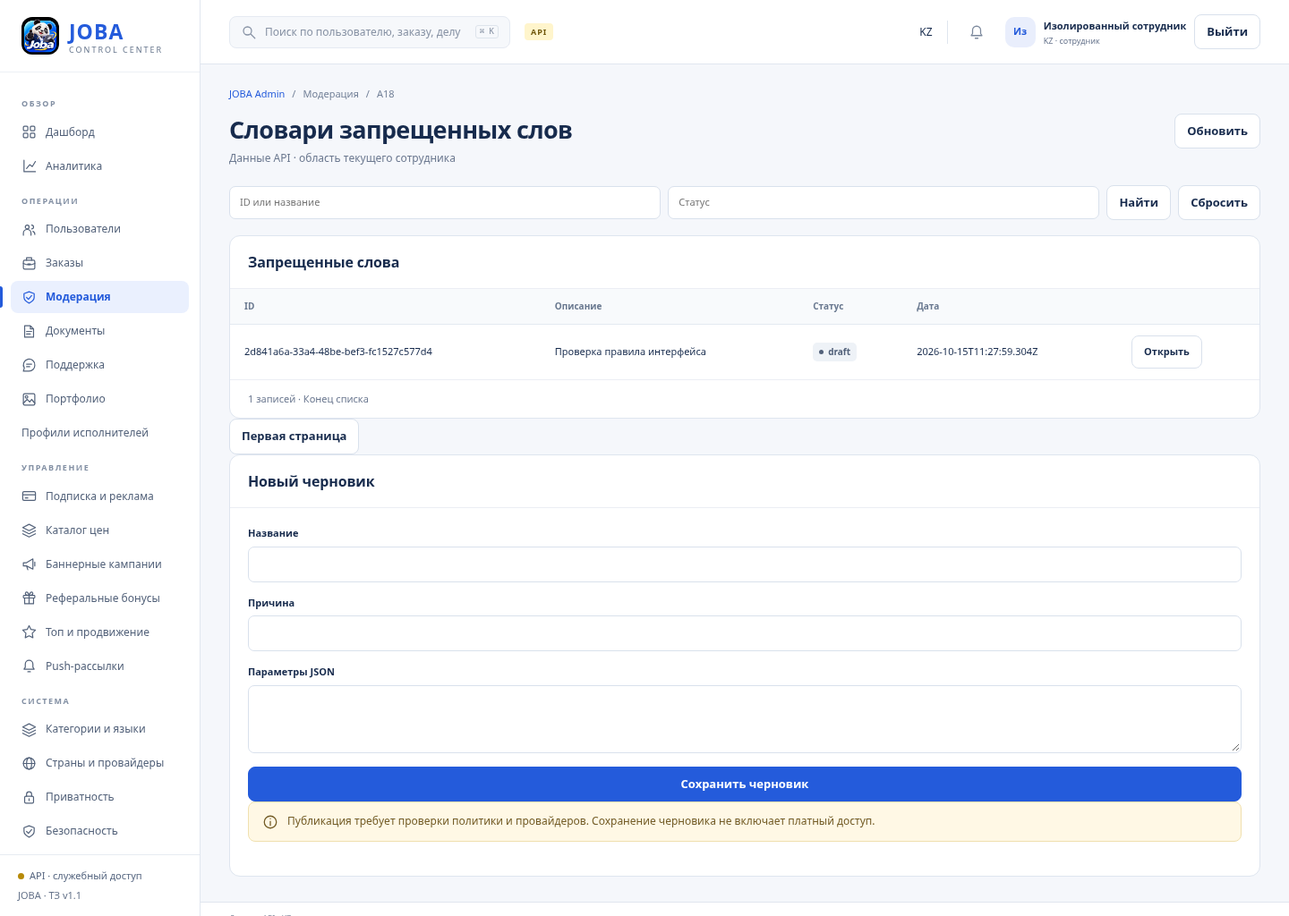
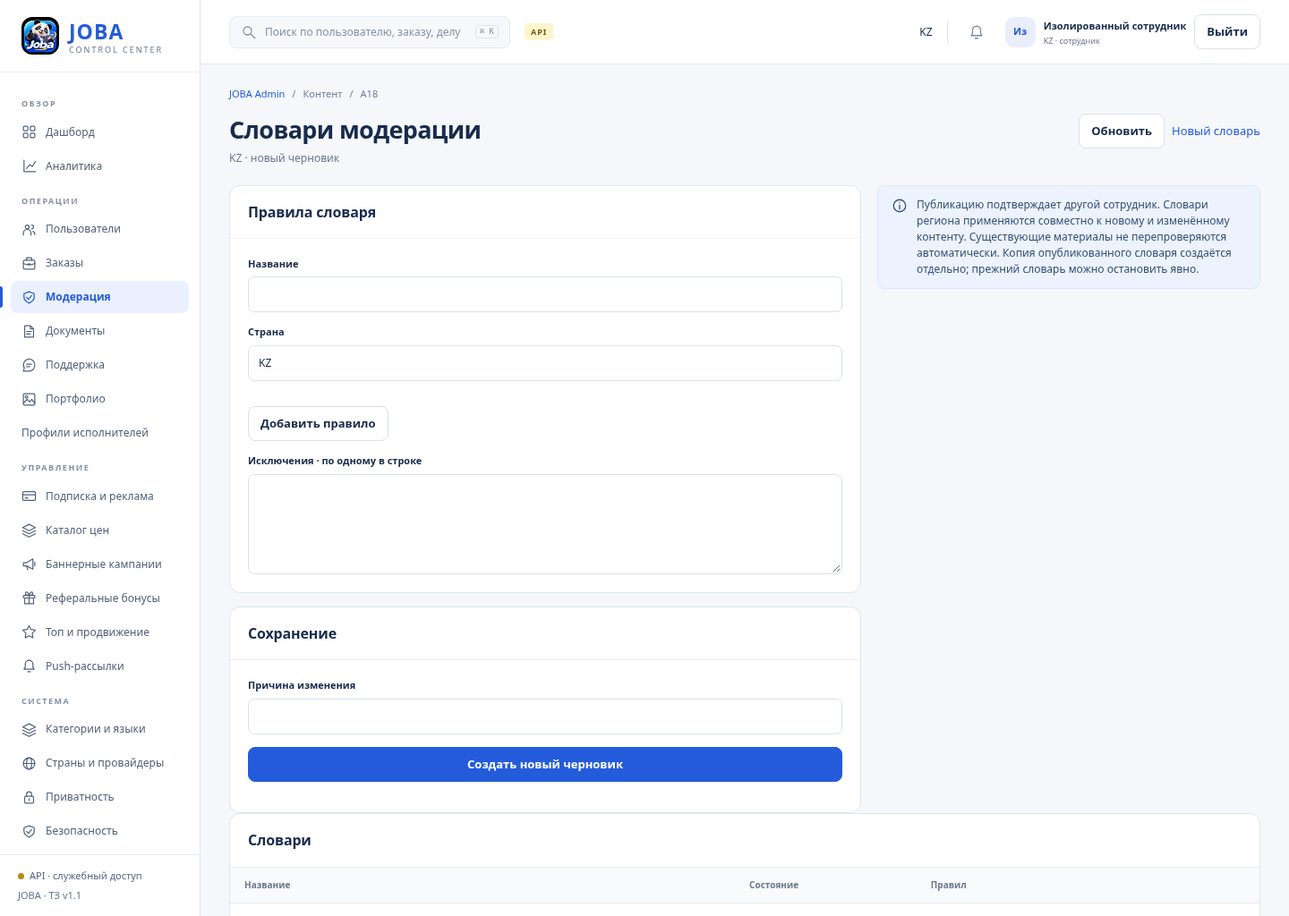
feat: add structured moderation dictionary editor and guarded publication

diff --git a/apps/admin/dictionary-workspace.js b/apps/admin/dictionary-workspace.js
@@ -1,0 +1,18 @@
+const surfaces={user:'Имя пользователя',order:'Заказы',offer:'Отклики',contractor:'Профили',portfolio:'Портфолио',message:'Сообщения',review:'Отзывы'};
+const states={draft:'Черновик',published:'Опубликован',stopped:'Остановлен'};
+export async function dictionaryWorkspace({key,api,esc,card,note,tablecard,country,actorId,onRefresh}){
+ const params=new URLSearchParams(location.hash.split('?')[1]||''),list=await api('/admin/moderation-dictionaries?'+new URLSearchParams({limit:'20',...(params.get('cursor')?{cursor:params.get('cursor')}:{})}));
+ const r=params.get('id')?await api('/admin/moderation-dictionaries/'+encodeURIComponent(params.get('id'))):undefined,p=r?.payload||{},own=r?.owner===actorId&&r.status==='draft';
+ const input=(label,name,value,attrs='')=>`<div class="formfield"><label for="dict-${name}">${label}</label><input id="dict-${name}" name="${name}" value="${esc(value??'')}" ${attrs}></div>`;
+ let counter=0;
+ const row=rule=>{const n=counter++;return `<fieldset data-rule ${rule.id?`data-rule-id="${esc(rule.id)}"`:''} class="stack"><legend>Правило</legend><div class="formgrid"><div class="formfield"><label for="dict-value-${n}">Слово или фраза</label><input id="dict-value-${n}" data-value value="${esc(rule.value||'')}" required maxlength="100"></div><div class="formfield"><label for="dict-type-${n}">Тип совпадения</label><select id="dict-type-${n}" data-type><option value="exact_word">Целое слово</option><option value="phrase" ${rule.type==='phrase'?'selected':''}>Фраза</option></select></div></div><div class="actions">${Object.entries(surfaces).map(([id,label])=>`<label><input type="checkbox" data-surface="${id}" ${!rule.surfaces||rule.surfaces.includes(id)?'checked':''}> ${label}</label>`).join('')}</div><button type="button" data-remove>Удалить правило</button></fieldset>`;};
+ return {key,id:'A18',title:'Словари модерации',subtitle:country+(r?' · Версия '+r.version+' · '+(states[r.status]||r.status):' · новый черновик'),section:'Контент',actions:'<button id="refresh-data">Обновить</button><a class="btn" href="#dictionary">Новый словарь</a>',body:()=>`<div class="grid split"><form id="dictionary-editor" class="stack">${card('Правила словаря',`${input('Название','title',r?.title,'required minlength="3" maxlength="120"')}${input('Страна','country',country,'readonly')}<div id="dictionary-rules" class="stack">${(p.rules||[]).map(row).join('')}</div><button type="button" id="dictionary-add">Добавить правило</button><div class="formfield"><label for="dict-exceptions">Исключения · по одному в строке</label><textarea id="dict-exceptions" name="exceptions" rows="5">${esc((p.exceptions||[]).join('\n'))}</textarea></div>`)}${card('Сохранение',`${input('Причина изменения','reason','','required minlength="10" maxlength="1000"')}<button class="primary">${own?'Сохранить черновик':'Создать новый черновик'}</button><div role="alert"></div>`)}</form><div class="stack">${note('Публикацию подтверждает другой сотрудник. Словари региона применяются совместно к новому и изменённому контенту. Существующие материалы не перепроверяются автоматически. Копия опубликованного словаря создаётся отдельно; прежний словарь можно остановить явно.')}${r?card('Проверка версии',`<a class="btn" href="#dictionary-dryrun?id=${encodeURIComponent(r.id)}">Проверить текст</a><form id="dictionary-command" class="stack"><label for="dict-command-reason">Основание действия</label><textarea id="dict-command-reason" name="reason" required minlength="10" maxlength="1000"></textarea><div class="actions"><button value="validate">Проверить</button><button value="preview">Предпросмотр правил</button>${r.status==='draft'?'<button value="publish" class="primary">Опубликовать другим сотрудником</button>':r.status==='published'?'<button value="stop">Остановить</button>':''}<button value="rollback">Создать копию</button></div><div role="alert"></div><div role="status"></div></form>`):''}</div></div>${tablecard('Словари',['Название','Состояние','Правил',''],list.items.map(x=>[esc(x.title),esc(states[x.status]||x.status),String(x.payload.rules.length),`<a href="#dictionary?id=${encodeURIComponent(x.id)}">Открыть →</a>`]),'',`${list.items.length} записей`)}${list.meta?.next_cursor?`<a href="#dictionary?cursor=${encodeURIComponent(list.meta.next_cursor)}">Следующая страница</a>`:''}`,
+ bind(){const form=document.getElementById('dictionary-editor'),commands=document.getElementById('dictionary-command'),rules=document.getElementById('dictionary-rules');let dirty=false,busy=false;
+ const changed=()=>{dirty=true;if(commands){commands.querySelectorAll('button').forEach(x=>x.disabled=true);commands.querySelector('[role=status]').textContent='Сохраните изменения перед проверкой.';}};
+ form.oninput=e=>{if(e.target.name!=='reason')changed();};
+ document.getElementById('dictionary-add').onclick=()=>{if(rules.children.length>=1000){form.querySelector('[role=alert]').textContent='Максимум 1000 правил';return;}rules.insertAdjacentHTML('beforeend',row({}));changed();rules.lastElementChild.querySelector('input').focus();};
+ rules.onclick=e=>{if(e.target.closest('[data-remove]')){e.target.closest('[data-rule]').remove();changed();}};
+ form.onsubmit=async e=>{e.preventDefault();if(busy)return;const v=Object.fromEntries(new FormData(form)),payload={rules:[...rules.querySelectorAll('[data-rule]')].map(x=>({...(x.dataset.ruleId?{id:x.dataset.ruleId}:{}),value:x.querySelector('[data-value]').value,type:x.querySelector('[data-type]').value,surfaces:[...x.querySelectorAll('[data-surface]:checked')].map(y=>y.dataset.surface)})),exceptions:v.exceptions.split('\n').map(x=>x.trim()).filter(Boolean)};busy=true;const controls=[...form.querySelectorAll('input,select,textarea,button')];controls.forEach(x=>x.disabled=true);form.querySelector('[role=alert]').textContent='';try{const saved=await api('/admin/moderation-dictionaries'+(own?'/'+r.id:''),own?'PATCH':'POST',{title:v.title,reason:v.reason,payload,...(own?{expected_version:r.version}:{})});if(params.get('id')===saved.id)await onRefresh();else location.hash='dictionary?id='+encodeURIComponent(saved.id);}catch(error){form.querySelector('[role=alert]').textContent=error.message;}finally{busy=false;controls.forEach(x=>x.disabled=false);}};
+ if(commands)commands.onsubmit=async e=>{e.preventDefault();if(dirty||busy)return;busy=true;const action=e.submitter.value,controls=[...commands.querySelectorAll('button'),...form.querySelectorAll('input,select,textarea,button')];controls.forEach(x=>x.disabled=true);commands.querySelector('[role=alert]').textContent='';try{const result=await api('/admin/moderation-dictionaries/'+r.id+'/'+action,'POST',{reason:new FormData(commands).get('reason'),expected_version:r.version});if(['validate','preview'].includes(action))commands.querySelector('[role=status]').textContent=`Версия ${result.version} проверена; правил ${result.rules}. Контент не изменён.`;else if(action==='rollback')location.hash='dictionary?id='+encodeURIComponent(result.id);else await onRefresh();}catch(error){commands.querySelector('[role=alert]').textContent=error.message;}finally{busy=false;controls.forEach(x=>x.disabled=false);}};
+ }};
+}

diff --git a/apps/admin/runtime.js b/apps/admin/runtime.js
@@ -1,3 +1,4 @@
+import {dictionaryWorkspace} from './dictionary-workspace.js';
 import {placementWorkspace} from './placement-workspace.js';
 import {rankingWorkspace} from './ranking-workspace.js';
 import {referralWorkspace} from './referral-workspace.js';
@@ -24,7 +25,7 @@ const {routes,render,card,tablecard,field,note,metric,badge}=window.JOBA_ADMIN;
 const designMode=new URLSearchParams(location.search).has('design');
 const esc=v=>String(v??'').replace(/[&<>"']/g,c=>({'&':'&amp;','<':'&lt;','>':'&gt;','"':'&quot;',"'":'&#39;'}[c]));
 let session,loginDraft,cache={},error='',generation=0,disposeWorkspace;
-const privateWorkspaces=new Set([...pushRoutes,...scenarioRoutes,...userRoutes,'placements','ranking','referrals','referral-preview','categories','prices','pricing','verificationPolicies','retention','campaigns','banner-detail','branding-build','boosts','boost-grant','analytics','dashboard','security','jobs','scheduled','job-detail','branding','countries','monetization','settings','legal']);
+const privateWorkspaces=new Set([...pushRoutes,...scenarioRoutes,...userRoutes,'dictionary','dictionaries','placements','ranking','referrals','referral-preview','categories','prices','pricing','verificationPolicies','retention','campaigns','banner-detail','branding-build','boosts','boost-grant','analytics','dashboard','security','jobs','scheduled','job-detail','branding','countries','monetization','settings','legal']);
 const cursors={},filters={},configRoutes=new Set(['prices','pricing','monetization','push','referrals','dictionaries','dictionary','categories','ranking','placements','verificationPolicies','retention']);
 const sections={users:['users','Аккаунты'],orders:['orders','Заказы'],support:['support-threads','Поддержка'],'support-recovery':['recovery-threads','Восстановление доступа'],moderation:['cases','Дела'],portfolio:['portfolio','Портфолио'],contractors:['contractors','Профили исполнителей'],privacy:['privacy-requests','Запросы приватности'],blacklist:['blacklist','Черный список'],audit:['audit','Аудит'],prices:['price-versions','Цены'],monetization:['monetization-configs','Монетизация'],push:['push-campaigns','Рассылки'],referrals:['referral-campaigns','Реферальные кампании'],dictionaries:['moderation-dictionaries','Словари'],categories:['categories','Категории'],ranking:['ranking-configs','Рейтинг'],pricing:['price-versions','Каталог цен'],campaigns:['banner-campaigns','Кампании'],dictionary:['moderation-dictionaries','Запрещенные слова'],verification:['verifications','Проверка документов'],top100:['boost-reports','Топ и продвижение'],placements:['placement-policies','Размещения'],verificationPolicies:['verification-policies','Правила проверки'],retention:['retention-policies','Сроки хранения']};
 function clearStaffState(){
@@ -115,11 +116,12 @@ async function draw(reload=true) {
       if(key==='countries')routes[key]=await countryWorkspace({key,api:request,esc,card,note,badge,namedField,onRefresh:()=>draw()});
       if(['analytics','dashboard','security','jobs','scheduled','job-detail'].includes(key))routes[key]=await systemWorkspace({key,api:request,esc,card,tablecard,note,metric,badge,onRefresh:()=>draw()});
       if(key==='security')routes[key].actions+='<a class="btn" href="#security-full">Защищённый просмотр</a>';
-      if(sections[key]&&!pushRoutes.has(key)&&!['placements','ranking','referrals','campaigns','verificationPolicies','retention','prices','pricing','categories'].includes(key))cache[key]=await request('/admin/'+sections[key][0]+'?'+new URLSearchParams({...filters[key],...(cursors[key]?{cursor:cursors[key]}:{})}));
+      if(sections[key]&&!pushRoutes.has(key)&&!['dictionary','dictionaries','placements','ranking','referrals','campaigns','verificationPolicies','retention','prices','pricing','categories'].includes(key))cache[key]=await request('/admin/'+sections[key][0]+'?'+new URLSearchParams({...filters[key],...(cursors[key]?{cursor:cursors[key]}:{})}));
       if(key==='categories')routes[key]=await categoryWorkspace({key,api:request,esc,card,note,tablecard,country:session.user.country,actorId:session.user.id,onRefresh:()=>draw()});
       if(['verificationPolicies','retention'].includes(key))routes[key]=await documentPolicyWorkspace({key,api:request,esc,card,note,tablecard,country:session.user.country,actorId:session.user.id,onRefresh:()=>draw()});
       if(['campaigns','banner-detail'].includes(key))routes[key]=await bannerWorkspace({key,api:request,files:{upload:async file=>{if(g!==generation)throw Error('Экран изменился');const result=await api.upload(file,'banner');if(g!==generation)throw Error('Экран изменился');return result;},download:async path=>{if(g!==generation)throw Error('Экран изменился');const result=await api.download(path);if(g!==generation)throw Error('Экран изменился');return result;}},esc,card,note,tablecard,country:session.user.country,actorId:session.user.id,onRefresh:()=>draw()});
       if(['promo','promo-preview'].includes(key))routes[key]=await promotionWorkspace({key,api:request,esc,card,note,tablecard,country:session.user.country,actorId:session.user.id,onRefresh:()=>draw()});
+      if(['dictionary','dictionaries'].includes(key))routes[key]=await dictionaryWorkspace({key,api:request,esc,card,note,tablecard,country:session.user.country,actorId:session.user.id,onRefresh:()=>draw()});
       if(key==='placements')routes[key]=await placementWorkspace({key,api:request,esc,card,note,tablecard,country:session.user.country,actorId:session.user.id,onRefresh:()=>draw()});
       if(key==='ranking')routes[key]=await rankingWorkspace({key,api:request,esc,card,note,tablecard,country:session.user.country,actorId:session.user.id,onRefresh:()=>draw()});
       if(['referrals','referral-preview'].includes(key))routes[key]=await referralWorkspace({key,api:request,esc,card,note,tablecard,country:session.user.country,actorId:session.user.id,onRefresh:()=>draw()});

diff --git a/services/api/src/marketplace.ts b/services/api/src/marketplace.ts
@@ -31,7 +31,7 @@ import { Commerce } from './commerce';
 import { PopplerPdfSanitizer } from './pdf-sanitizer';
 import { PrivateFiles, ClamAvScanner } from './private-files';
 import sharp from 'sharp';
-import { Moderation, validateRules, TEXT_SURFACES, matchesRule } from './moderation';
+import { Moderation, dictionaryPayload,validateRules, TEXT_SURFACES, matchesRule } from './moderation';
 import { Configuration,normalizePromotionPayload } from './configuration';
 import { Growth } from './growth';
 import { Branding } from './branding';
@@ -1283,7 +1283,7 @@ export class Marketplace {
       }
       const configKinds=['monetization-configs','price-versions','categories','push-campaigns','referral-campaigns','moderation-dictionaries','ranking-configs','promotions','placement-policies','verification-policies','retention-policies','country-controls'];
       if(configKinds.includes(section)&&method==='POST'&&path.split('/').length===3) {
-        if(section==='moderation-dictionaries'){try{validateRules(b.payload?.rules);}catch(e:any){fail(400,'VALIDATION_ERROR',e.message);}}
+        if(section==='moderation-dictionaries'){try{b.payload=dictionaryPayload(b.payload);}catch(e:any){fail(400,'VALIDATION_ERROR',e.message);}}
         if(section==='categories'){
           const r=this.record('category',a,{title:text(b,'title',3,120),status:'draft'});let stable=r.id;
           if(b.payload?.category_id){const original=await this.object(String(b.payload.category_id),a,'category');stable=categoryId(original);r.legacy_id=original.legacy_id;}
@@ -1341,11 +1341,18 @@ export class Marketplace {
         const result=await this.store.put({...r,title:text(b,'title',3,120),payload:normalizePromotionPayload(b.payload??{}),preview:undefined,version:r.version+1});
         await this.audit(a,'promotions.edited',r.id,text(b,'reason',5,1000));return result;
       }
+      const editDictionary=path.match(/^\/admin\/moderation-dictionaries\/([^/]+)$/);
+      if(editDictionary&&['GET','PATCH'].includes(method)){
+        const r=await this.object(editDictionary[1],a,'dictionary');if(method==='GET')return r;
+        this.version(r,b);if(r.owner!==a.id||r.status!=='draft')fail(409,'STATE_CONFLICT','Создайте новый черновик словаря');
+        let payload;try{payload=dictionaryPayload(b.payload);}catch(e:any){fail(400,'VALIDATION_ERROR',e.message);}
+        const result=await this.store.put({...r,title:text(b,'title',3,120),payload,preview:undefined,version:r.version+1});await this.audit(a,'dictionary.edited',r.id,text(b,'reason',10,1000));return result;
+      }
       const dictionaryDryRun=path.match(/^\/admin\/moderation-dictionaries\/([^/]+)\/dry-run$/);
       if(dictionaryDryRun&&method==='POST'){
         const d=await this.object(dictionaryDryRun[1],a,'dictionary');this.version(d,b);
         const sample=text(b,'text',1,10000),reason=text(b,'reason',10,1000);
-        try{validateRules(d.payload.rules);}catch(e:any){fail(400,'VALIDATION_ERROR',e.message);}
+        try{dictionaryPayload(d.payload);}catch(e:any){fail(400,'VALIDATION_ERROR',e.message);}
         if(!Object.hasOwn(TEXT_SURFACES,String(b.surface)))fail(400,'VALIDATION_ERROR','Неизвестная поверхность текста');
         const hits=d.payload.rules.filter((r:any)=>(!r.surfaces||r.surfaces.includes(b.surface))&&matchesRule(sample,r.value,r.type,d.payload.exceptions??[])).map((r:any)=>({rule_id:r.id??r.value,type:r.type,value:r.value}));
         await this.audit(a,'dictionary.dry_run',d.id,reason);return {dictionary_id:d.id,version:d.version,surface:b.surface,hits,matched:hits.length>0,mutated_content:false};
@@ -1356,8 +1363,9 @@ export class Marketplace {
       if(blacklistDetail&&method==='GET'){const r=await this.object(blacklistDetail[1],a,'blacklist');return {id:r.id,user_id:r.user_id,case_id:r.case_id,status:r.status,scope:r.scope,reason:r.reason,ends_at:r.ends_at,created_at:r.created_at,version:r.version};}
       const dictionaryCommand=path.match(/^\/admin\/moderation-dictionaries\/([^/]+)\/(validate|preview|publish)$/);
       if(dictionaryCommand&&method==='POST') {
-        const d=await this.object(dictionaryCommand[1],a,'dictionary');try{validateRules(d.payload.rules);}catch(e:any){fail(400,'VALIDATION_ERROR',e.message);}
-        if(dictionaryCommand[2]!=='publish')return {valid:true,version:d.version,rules:d.payload.rules.length,retroactive:false};
+        const d=await this.object(dictionaryCommand[1],a,'dictionary');this.version(d,b);const reason=text(b,'reason',10,1000);try{dictionaryPayload(d.payload);}catch(e:any){fail(400,'VALIDATION_ERROR',e.message);}
+        if(dictionaryCommand[2]!=='publish'){await this.audit(a,'dictionary.'+dictionaryCommand[2],d.id,reason);return {valid:true,version:d.version,rules:d.payload.rules.length,retroactive:false};}
+        if(d.status!=='draft')fail(409,'STATE_CONFLICT','Публиковать можно только черновик словаря');
         this.version(d,b);if(d.owner===a.id)fail(403,'SECOND_APPROVAL_REQUIRED','Публикацию подтверждает другой сотрудник');
         const result=await this.store.put({...d,status:'published',published_at:new Date().toISOString(),version:d.version+1});await this.audit(a,'dictionary.published',d.id,text(b,'reason',10,1000));return result;
       }

diff --git a/services/api/src/moderation.ts b/services/api/src/moderation.ts
@@ -17,7 +17,17 @@ export function matchesRule(source:string,value:string,type:'exact_word'|'phrase
 }
 export function validateRules(rules:any) {
   if(!Array.isArray(rules)||rules.length>1000)throw Error('Словарь: максимум 1000 правил');
-  for(const r of rules)if(!['exact_word','phrase'].includes(r.type)||typeof r.value!=='string'||r.value.length<1||r.value.length>100||r.regex!==undefined)throw Error('Недопустимое правило словаря');
+  const ids=new Set<string>();
+  for(const r of rules){
+    if(!r||!['exact_word','phrase'].includes(r.type)||typeof r.value!=='string'||!r.value.trim()||r.value.length>100||r.regex!==undefined)throw Error('Недопустимое правило словаря');
+    if(r.surfaces!==undefined&&(!Array.isArray(r.surfaces)||!r.surfaces.length||r.surfaces.some((x:any)=>typeof x!=='string'||!Object.hasOwn(TEXT_SURFACES,x))))throw Error('Неизвестная поверхность правила');
+    if(r.id!==undefined){if(typeof r.id!=='string'||!r.id.trim()||r.id.length>100||ids.has(r.id))throw Error('ID правил должны быть уникальными');ids.add(r.id);}
+  }
+}
+export function dictionaryPayload(p:any){
+  validateRules(p?.rules);const exceptions=p.exceptions??[];
+  if(!Array.isArray(exceptions)||exceptions.length>1000||exceptions.some((x:any)=>typeof x!=='string'||!x.trim()||x.length>200))throw Error('Исключения: максимум 1000 строк по 200 символов');
+  return {rules:p.rules.map((r:any)=>({...(r.id!==undefined?{id:r.id}:{}),type:r.type,value:r.value.trim(),...(r.surfaces?{surfaces:[...new Set(r.surfaces)]}:{})})),exceptions:[...new Set(exceptions.map((x:string)=>x.trim()))]};
 }
 export class Moderation {
   constructor(private store:Store){}

diff --git a/apps/admin/styles.css b/apps/admin/styles.css
@@ -25,3 +25,4 @@
 #referral-editor fieldset{border:1px solid var(--line,#dbe3f2);border-radius:10px;padding:12px 16px;margin:10px 0;min-width:0}#referral-editor legend{font-size:12px;font-weight:700;padding:0 6px}#referral-editor .check{display:flex;align-items:center;gap:8px;margin:6px 0}#referral-editor .check input{width:auto;min-height:0}
 
 .referral-layout .cardhead{padding:15px 18px}.referral-layout .cardhead h2{font-size:14px}.referral-layout .cardbody{padding:16px 18px}.referral-layout .formgrid{gap:16px 12px}.referral-layout .formfield input,.referral-layout .formfield select{font-size:11px}.referral-layout .info-row b{font-weight:400;max-width:60%;text-align:right}.referral-layout .info-row{font-size:11px;gap:16px}.referral-offer{background:#F2F6FE;border-radius:12px;padding:25px}.referral-offer h2{font-size:27px;margin-top:10px}.referral-benefit{font-size:17px;margin-top:7px}.referral-conditions{margin:20px 0 0}.referral-layout .btn{display:inline-flex;margin-top:14px;padding:8px 12px;border:1px solid #D9E1EC;border-radius:8px}
+#dictionary-editor .cardbody{display:flex;flex-direction:column;gap:14px}#dictionary-editor fieldset{border:1px solid var(--line,#dbe3f2);border-radius:10px;padding:14px;margin:0;min-width:0}#dictionary-editor legend{font-size:12px;font-weight:700;padding:0 6px}#dictionary-editor [data-remove],#dictionary-add{align-self:flex-start}#dictionary-editor [data-surface]{width:auto;margin:0 4px 0 0}#dictionary-editor fieldset .actions label{display:inline-flex;align-items:center;font-size:12px;gap:3px}#dictionary-editor .actions{row-gap:10px}

diff --git a/docs/dictionary-editor-update.md b/docs/dictionary-editor-update.md
@@ -1,0 +1,13 @@
+# Структурированный словарь модерации
+
+Форма `#dictionary` (также `#dictionaries`) заменяет JSON отдельными правилами. Для каждого правила доступны слово/фраза, тип совпадения и области применения: имя пользователя, заказ, отклик, профиль, портфолио, сообщение и отзыв. Правила добавляются и удаляются; исключения вводятся по одному в строке. ID существующих правил сохраняются. Страна берётся из сессии сотрудника.
+
+Добавлены GET/PATCH `/admin/moderation-dictionaries/{id}`. PATCH допускается только для собственного черновика с ожидаемой версией и причиной. Валидация проверяет пустые значения, длину, тип, поверхности, уникальность ID, формат исключений и отсутствие regex; посторонние поля не сохраняются. Ограничение — 1000 правил и 1000 исключений. Пустой словарь допустим, он ничего не блокирует.
+
+Проверка и предпросмотр требуют актуальной версии, причины и записываются в аудит. Публиковать можно только черновик, причём другим сотрудником с правом moderator_manager и MFA. Повторная публикация опубликованного/остановленного словаря запрещена. Пробная проверка текста остаётся отдельным экраном, не создаёт дела и не меняет контент. Несохранённые изменения блокируют команды формы; ошибки сохраняют поля.
+
+Опубликованные словари региона применяются совместно. Копия не выключает предыдущий словарь: для этого есть явная остановка. Текущая модель направляет совпавший материал в карантин и создаёт дело для ручного решения. Публикация и остановка не перепроверяют старый контент и не закрывают прежние дела.
+
+Проверено: сборки всех рабочих пространств; 97 тестов API без ошибок, включая новый сценарий редактирования, прав, версий, исключений, пробного запуска, публикации, фактической модерации заказа и остановки. Браузерный прогон через настоящий HTTP API: создание, добавление/удаление правила, редактирование, блокировка несохранённой версии, предпросмотр и отказ автору в публикации. База изолирована от рабочего сервера.
+
+A18 остаётся в визуальной приёмке. Форма ещё не совпадает с таблицей макета 1:1; языковая область и отдельные действия правил требуют дальнейшей сверки с ТЗ. Дополнительный снимок `design/review/admin/dictionary-editor.png` отражает проверенный сценарий, а не принятие экрана. Эти изменения ещё не развёрнуты на сервере.

diff --git a/docs/completion-plan.md b/docs/completion-plan.md
@@ -32,7 +32,7 @@
 
 ## 5. Структурированные формы админки
 
-Статус: в работе. Формы правил проверки, хранения документов, каталога цен, категорий, рейтинга и мест размещения реализованы; остальные формы и визуальная приёмка открыты. См. `document-policy-editor-update.md`, `price-editor-update.md`, `category-editor-update.md`, `ranking-editor-update.md`, `placement-editor-update.md`. В реферальной механике добавлен резерв бюджета до принятия приглашения; структурированная форма A20 подключена к API; окно ввода кода после регистрации реализовано, остальные дополнительные правила и визуальная приёмка открыты. См. `referral-reservations-update.md`, `referral-editor-update.md`.
+Статус: в работе. Формы правил проверки, хранения документов, каталога цен, категорий, рейтинга, мест размещения и словарей реализованы; остальные формы и визуальная приёмка открыты. См. `document-policy-editor-update.md`, `price-editor-update.md`, `category-editor-update.md`, `ranking-editor-update.md`, `placement-editor-update.md`, `dictionary-editor-update.md`. В реферальной механике добавлен резерв бюджета до принятия приглашения; структурированная форма A20 подключена к API; окно ввода кода после регистрации реализовано, остальные дополнительные правила и визуальная приёмка открыты. См. `referral-reservations-update.md`, `referral-editor-update.md`.
 
 Условие завершения: Для каждой формы поля, ограничения, сохранение, конфликт и права.
 
